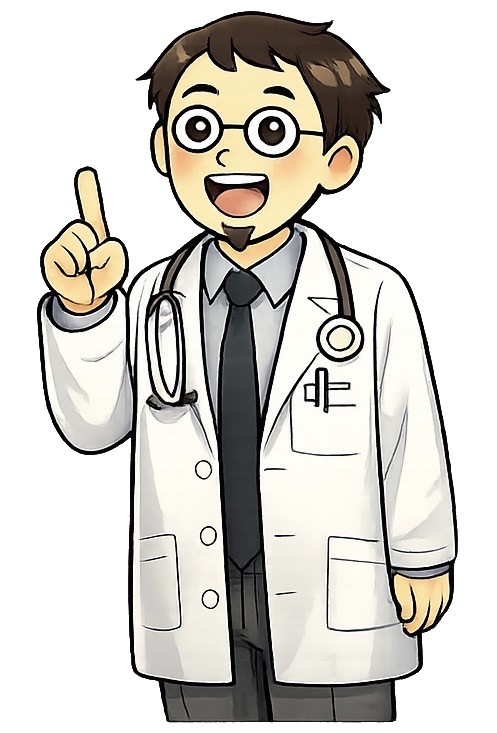
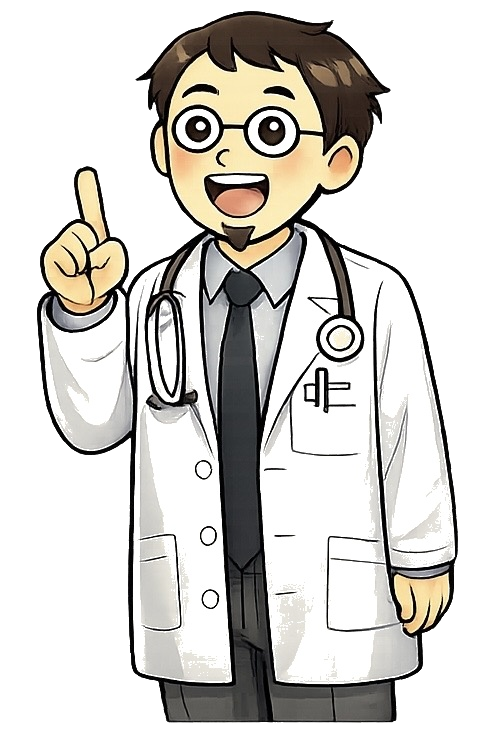
Add Vercel Analytics

diff --git a/app/layout.tsx b/app/layout.tsx
@@ -3,6 +3,7 @@ import { Geist, Geist_Mono } from "next/font/google";
 import "./globals.css";
 import ServiceWorkerRegister from "@/components/ServiceWorkerRegister";
 import InstallBanner from "@/components/InstallBanner";
+import { Analytics } from "@vercel/analytics/react";
 
 const geistSans = Geist({
   variable: "--font-geist-sans",
@@ -38,6 +39,7 @@ export default function RootLayout({
         <ServiceWorkerRegister />
         <InstallBanner />
         {children}
+        <Analytics />
       </body>
     </html>
   );
